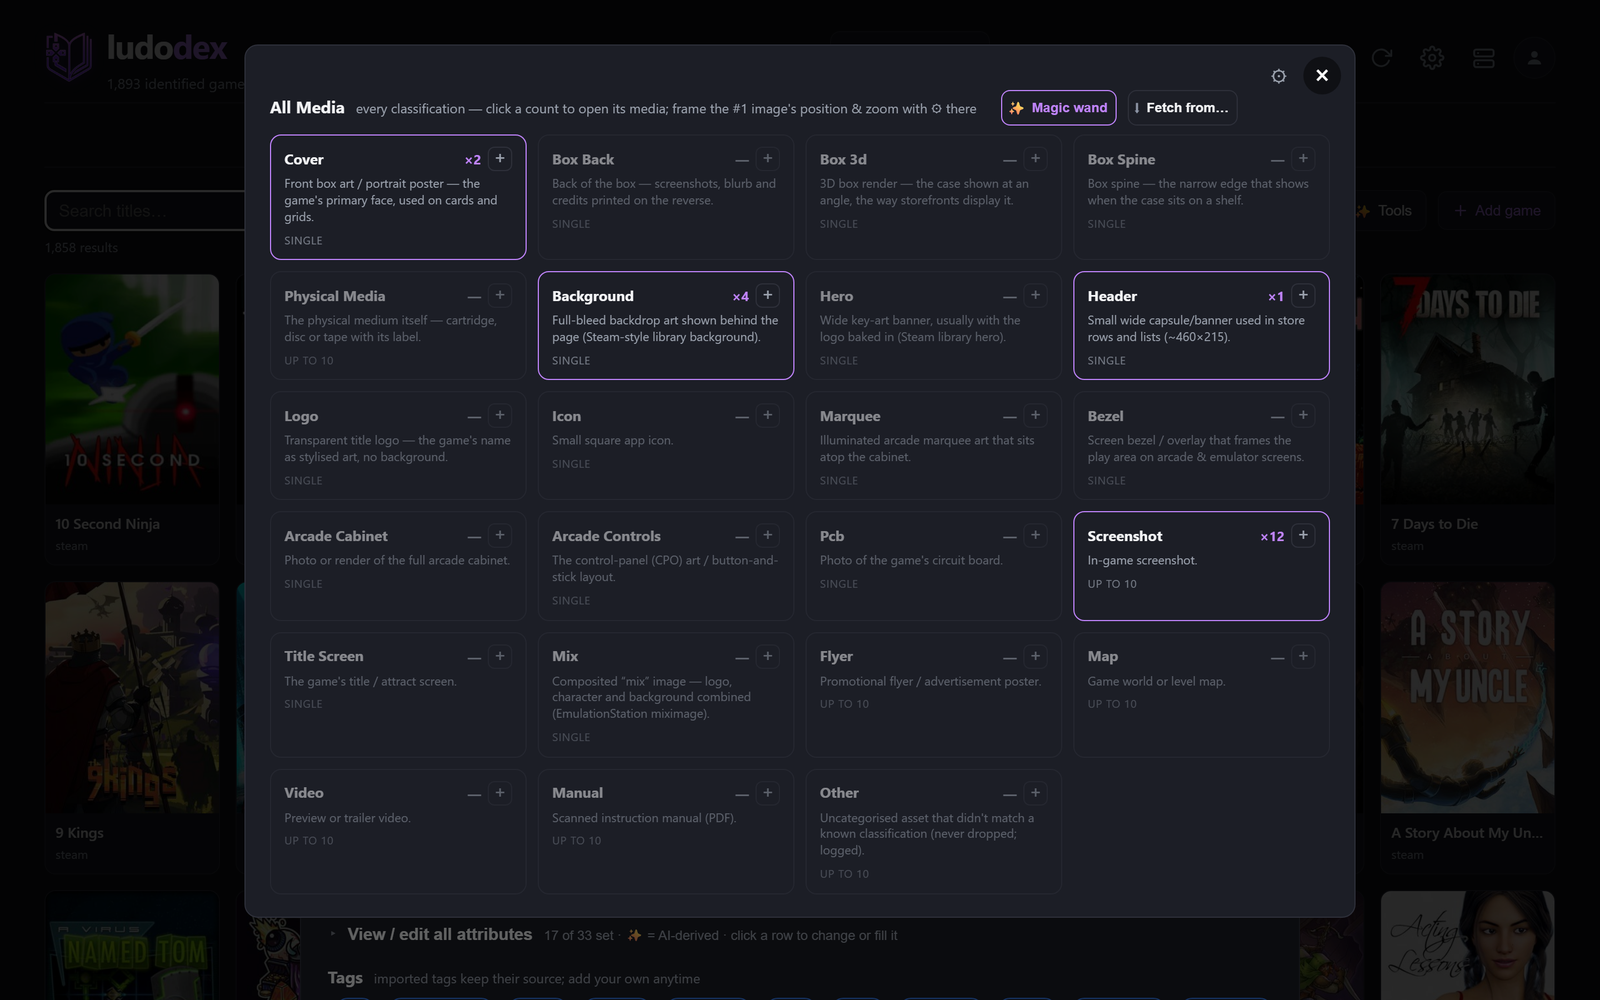
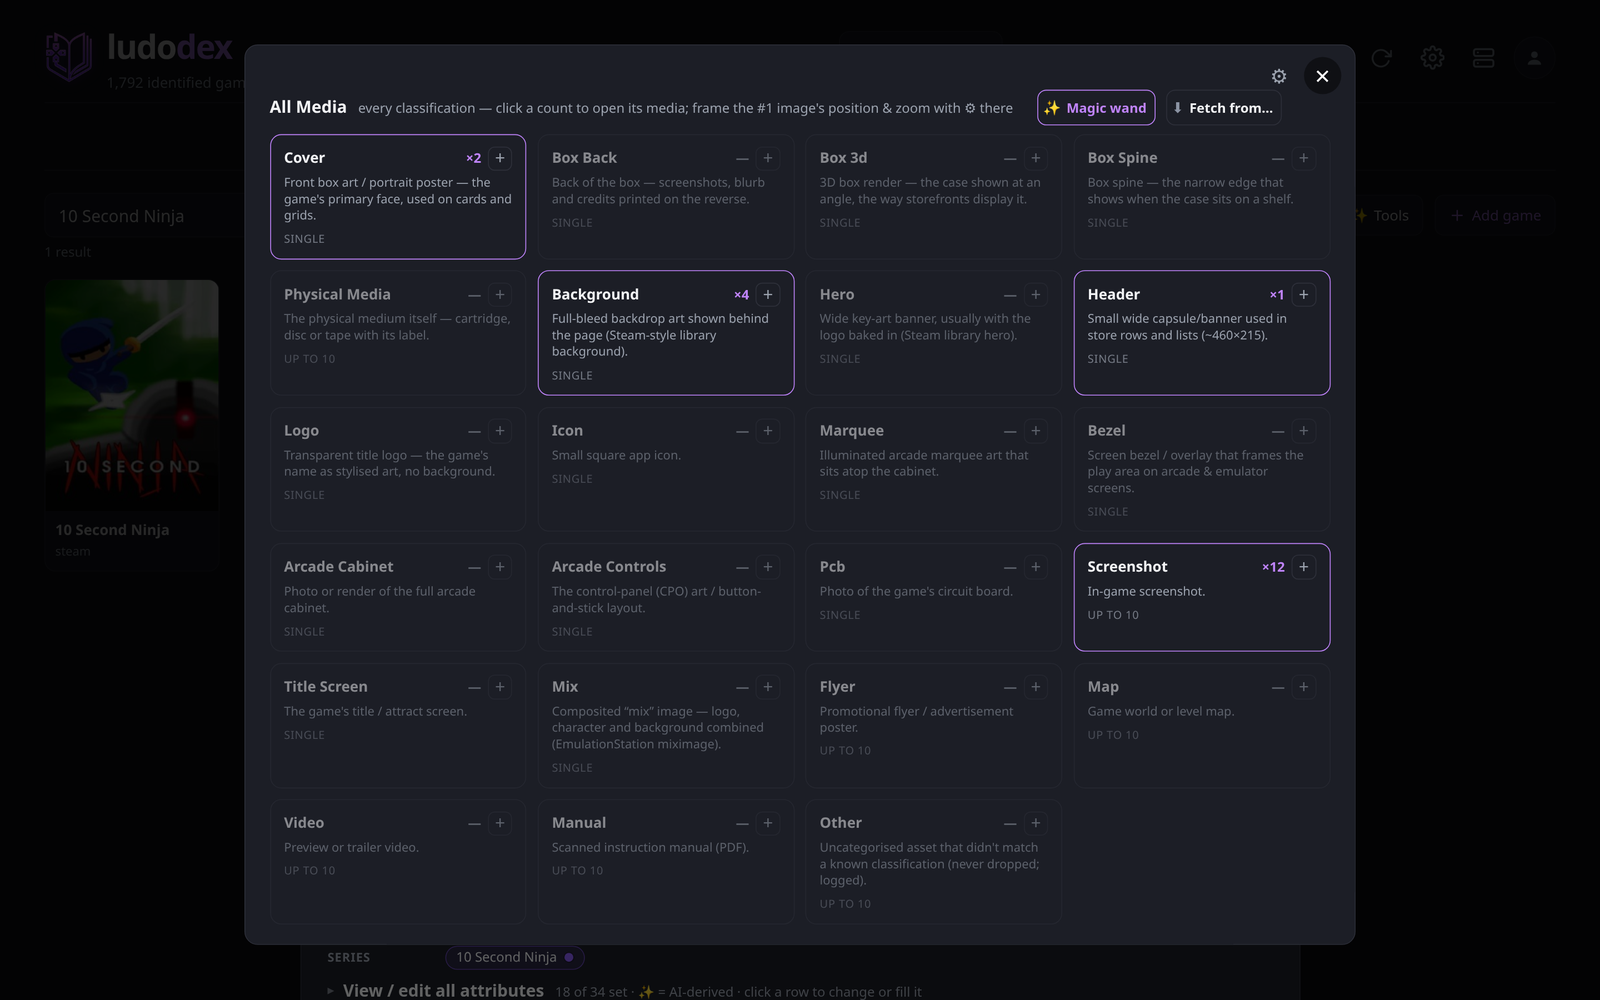
docs: match the docs to this week's cleanup, and retake the screenshots
TASKS records the 2026-09-24 work: the whole-codebase cleanup, the bugs it
found, the live UI suite and the defects that suite found, with the results
and the two ideas left undone.

AUTH gains a section on signing in to ludodex itself: which screens and
routes are admin-only, and what /api/health shows signed out. It also says
what makes EA read as connected, and names the Settings panel that now holds
store credentials. DOCKER points health checks at /api/health. CONFIG lists
the two new preferences and explains the readiness check behind the [ok]
mark. DESIGN describes how a route resolves a game key and the one-job-per-
kind guard, and corrects where the Xbox setting lives. SCHEMA notes the new
catalog indexes, SYNC and HANDOFF note what is admin-only or open, TESTING
describes the key lint as it now works and the suite's admin-only and add-on
checks. README counts 34 attributes, as the app does.

All six README screenshots retaken from the live app at the same widths:
the header and dashboard numbers changed, detail pages gained Series,
Franchise and Related games, and chips now carry provider ids.

diff --git a/docs/TASKS.md b/docs/TASKS.md
@@ -4,7 +4,7 @@ The working backlog. Numbers are stable task IDs referenced in commit messages
 (`feat(match-confidence): … (#13)`). Per-task design docs live in
 `docs/superpowers/specs/`; execution plans in `docs/superpowers/plans/`.
 
-Last reviewed: 2026-09-15.
+Last reviewed: 2026-09-24.
 
 ---
 
@@ -1227,3 +1227,75 @@ Suite 188 passed / 0 failed / 6 skipped.
 flattening the block and splitting on commas, so a COMMENT containing a comma turned the
 entry below it into a junk token and the kind read as missing. The list is commented on
 purpose, so the parser now strips comments first.
+
+## Shipped 2026-09-24: whole-codebase cleanup, and a live UI suite that found real defects
+
+Commits `7dd0b53`..`bdf016a`. No task number; this was a review of the whole codebase,
+then a browser suite to prove the result against the running app.
+
+### The cleanup
+
+| Area | What changed |
+|---|---|
+| Catalog speed | Indexes on `COALESCE(card_key, entry_key)` (the grid's grouping), `base_key` and `parent_key`, and on `run_ops(run_id, status)`. Schema DDL runs once per process per file (`ludodex/schema_once.py`) instead of on every connection. Stats and detail queries batched; the backing-store SQL sync uses `executemany`. |
+| One answer per question | `config.ready(pid)` is the one readiness check behind the CLI status column, the sync picker, the Stores & providers panel and the provider matrix. EA and Epic are stricter in the CLI than before, GOG now shows connected, and TheGamesDB needs an API key to read as ready. |
+| Store links | Built server-side in `provider_links`; each source row carries its `url`. `media_fetch` is driven by one provider table (`FULL_REFRESH`). |
+| Route keys | Every route that takes a game key declares it as `BaseKey`, `EntryKey`, `BaseNk`, `CollBaseKey` or `RawKey`, and FastAPI resolves it. `test_routes_resolve_their_keys.py` checks the annotation. |
+| Jobs | One `JobSlot` guard for the seven single-flight jobs (sync, ROM sync, media, match, match index, publish, backup). Check and claim happen under one lock. Media, match, match-index and backup jobs now appear in the job monitor and can be dismissed. |
+| Shared helpers | `_resolve_area`, `_meta_cache`, `_igdb_record`, `catalog_patch.rename_if_rom_only` and `sources_summary`; `DATA` read from config; `api.ts` goes through `get` / `mutate` / `postJson`; `useEscClose`. Dead code removed. UI polls pause while the tab is hidden. |
+
+**Bugs the review found:**
+- The per-game provider on/off switch accepted 3 of the 7 metadata providers. It now
+  reads `provider_ids.PROVIDERS`.
+- Job-slot races: two requests arriving together could both start a match-index download
+  or rebuild, a backup, or a scheduled backup.
+- The media storage job and the media reconcile queue shared one lock.
+- `media_fetch --sync-art <anything but igdb>` printed a count and exited 0. It now
+  errors, because only IGDB has an incremental pass.
+- `sources_summary` mishandled a source with a blank platform.
+- `gog_wishlist` did not save a refreshed token.
+- Art adjudication now rechecks its marker before each paid call.
+- Errors that reached the UI as `[object Object]` now show their message.
+
+### The live UI suite
+
+`tests/browser/ui_full.py`, run by `scripts/run_live_ui.sh`: Playwright inside a browser
+container over CDP, in its own context, behind a write guard, with reversible toggles
+only. See `docs/TESTING.md`. Its first runs found these, all fixed:
+
+- `%` and `_` in a search, or in the query language, were SQL `LIKE` wildcards. They are
+  now escaped.
+- `/api/stats` counted entries the library hides, so a dashboard card read higher than
+  the view it opened. It now applies the library's own hidden-entry rule.
+- The dashboard counted DLC and expansions as games. It no longer does, and `/api/stats`
+  reports how many it left out as `addons`.
+- A metadata provider disabled for a game vanished from the list, so it could not be
+  turned back on. It now stays listed, marked disabled.
+- `spotlight_include_collections` was not saved.
+- A game owned twice on one store (BioShock is Steam 7670 and Steam 409710) showed one
+  store chip, because the chips were keyed by store name. They are now keyed by store
+  and id. The IGDB chip now links to IGDB.
+- `/api/devices/browse-entries` is a GET, as a read should be, not a POST.
+- "1 results" reads "1 result".
+- At tablet and phone widths the Settings section row covered the close button.
+- `/api/health` served data paths and the AI setup to anyone who could reach the port.
+  Signed out it now returns only `{"ok": true}`; the details need a login unless an
+  admin turns on Settings > Account & Users > Health endpoint (`public_health_details`).
+- A normal user could open Settings > Database, whose panels call admin-only APIs, and
+  sat on "Loading" forever. Database is now admin-only, like Account & Users.
+- Five Settings panels (AI settings, backing store, snapshots, library preferences,
+  runbook) hid a failed first load behind a spinner. They now show the error.
+
+### Live result
+
+Offline suite: 198 passed, 0 failed, 6 skipped. Live UI suite: 437 checks, 0 failed, as
+a normal user; 483 checks, 0 failed, as an admin with writes on, every toggle restored.
+
+### Considered and not done
+
+- **Browser caching of covers.** Safe only with a cover version stamp that changes every
+  time the chosen art changes. Without one, a long cache would keep showing replaced art.
+- **Server `DATA` from config.** `config.DATA` is fixed when the module is first imported,
+  so reading the server's paths from it would not follow a later change.
+
+Nothing from this session is left open.

diff --git a/docs/AUTH.md b/docs/AUTH.md
@@ -20,7 +20,7 @@ environment variable   >   local config (config.sqlite)
 
 - **Env var** — highest priority; handy for one-off runs / CI.
 - **Local config** — `python3 ludodex/config.py set <key> <value>` (or enter it in the web
-  UI: **Settings › Services**); stored in `config.sqlite` (gitignored).
+  UI: **Settings › Connections › Stores & providers**); stored in `config.sqlite` (gitignored).
 
 Resolver helpers (used by the pull scripts and `scripts/auth_status.sh`):
 
@@ -145,6 +145,10 @@ from your logged-in browser:
   Where Akamai blocks it (Path B), EA is a **re-grab-on-demand** source — re-do the
   URL→JSON step when you want to refresh ownership (EA libraries change rarely). Full
   server-side automation would need a real browser engine (Playwright), as Lutris uses.
+- **What counts as connected:** EA reads as ready only while an unexpired token sits in
+  `.ea/token.json`. A `remid` alone does not count, because the refresh it depends on is
+  so often blocked. The CLI status column, the sync menu and the provider matrix all ask
+  the same check (`config.ready`).
 
 ### emulation / local archives
 No cloud auth. The emulation ROM index is built from `roms-index.sqlite`
@@ -393,6 +397,21 @@ ScreenScraper) is IP-gated. Setting `commercial_safe_only=1` is intended to run
 only the cleared providers — keep a commercial build standing on IGDB + members'
 own ownership/library data + user-owned media, with the rest as license-gated
 enrichers.
+
+## Signing in to ludodex itself
+
+Every `/api/*` route needs a signed-in session, except sign-in itself and
+`/api/health`. Accounts are local, with two roles, `admin` and `user`, and
+[Cloudflare Access](CLOUDFLARE.md) can sign people in on top of them.
+
+- **Admin only:** Settings › **Account & Users** and Settings › **Database**, the
+  **Files** tab, and the server-side operator routes (file operations, restart and
+  reset, backups, the backing store, catalog rebuild, match-index download). The
+  server refuses these to a `user` whatever the UI shows.
+- **`/api/health`:** a signed-out caller gets `{"ok": true}` and nothing else, which is
+  enough for a container health check or an uptime monitor. The details (data paths
+  and the AI setup) need a login, unless an admin turns on Settings › Account & Users ›
+  **Health endpoint** (config `public_health_details`).
 
 ## Onboarding a fresh machine
 

diff --git a/docs/DESIGN.md b/docs/DESIGN.md
@@ -412,6 +412,13 @@ same across platforms → keyed by **`base_key`** and fanned across its entries 
 time. Ownership, installs, pins, framing and **media choice** are **per-entry**
 (platform-specific).
 
+**How a route reads a key.** Three shapes reach a route: `<base_key>@<platform>`, a bare
+`base_key`, and a card key (§11.10). Only `_split_entry_key` understands all three, so no
+route splits a key itself. It declares the key as `BaseKey`, `EntryKey`, `BaseNk` or
+`CollBaseKey` (or `RawKey` to echo it back unchanged), and FastAPI resolves it before the
+handler runs. `tests/test_routes_resolve_their_keys.py` fails any route that takes a key
+another way.
+
 ### 11.4 Media siloing (fixes the wrong-cover bug)
 
 `media` already carries `system`. An entry's media = `media WHERE norm_key=base_key AND
@@ -421,8 +428,8 @@ to platform-neutral store art (`system IS NULL`) when a console has none.
 
 ### 11.5 Xbox platform setting
 
-Config **`xbox_platform`** = `xbox` (default) | `pc`, surfaced at **Settings → Stores →
-Xbox**. It only sets the **bulk-inbound** bucket for the Xbox sync. Independent of it,
+Config **`xbox_platform`** = `xbox` (default) | `pc`, surfaced at **Settings → Library →
+Preferences**. It only sets the **bulk-inbound** bucket for the Xbox sync. Independent of it,
 **manual per-platform ownership can mark a game owned on Xbox AND PC** (or either) — the
 setting is the default, manual is unconstrained.
 
@@ -459,6 +466,13 @@ for the entire rebuild (~10 min on the array) and every concurrent `/api` read t
 catalog intact. Any large SQLite writer added here follows the same pattern. Server read
 connections (`ro()`) also carry `busy_timeout` so a brief lock from another pipeline
 writer (scores / media backfill) waits rather than erroring.
+
+**Long jobs run one at a time per kind.** Sync, ROM sync, media download, provider match,
+match index, publish and backup each hold a `JobSlot` in `server/app.py`. The running
+check and the claim happen under one lock, so two requests that arrive together cannot
+both start. A second start answers `409` with the reason, and a slot can name other slots
+that block it. Every slot reports to the job monitor in the header, where a finished job
+can be dismissed.
 
 ### 11.9 Media identity binding — the durable exit from the read-time heuristic stack
 

diff --git a/docs/TESTING.md b/docs/TESTING.md
@@ -26,13 +26,15 @@ So there are three kinds, and each catches what the others cannot.
 
 | kind | needs | catches |
 |---|---|---|
-| **unit** (~180 files) | nothing | logic, in isolation, fast |
+| **unit** (~200 files) | nothing | logic, in isolation, fast |
 | **contract** (`test_live_ui_contract.py`) | a running instance | the UI/API seam |
 | **render** (`test_live_browser_detail.py`) | a browser too | whether anything reached the screen |
 
 Plus one **lint** with no dependencies at all: `test_routes_resolve_their_keys.py` reads
-`server/app.py` and fails if a route takes a game key and queries by `norm_key` without
-resolving it first. That is the media bug, caught at the moment somebody writes it.
+`server/app.py` and fails if a route takes a game key any way other than through a key
+dependency (`BaseKey`, `EntryKey`, `BaseNk`, `CollBaseKey`) or a helper that resolves it,
+unless the route is named in the test as taking something else. That is the media bug,
+caught at the moment somebody writes it.
 
 ## The live tests
 
@@ -96,12 +98,17 @@ Two habits, both learned the hard way:
 ## The whole UI, in a real browser
 
 `tests/browser/ui_full.py` walks every screen a user can reach and checks each against the
-API: sign-in and session, the dashboard numbers and the views each card opens, library
+API: sign-in and session, the dashboard numbers (the Games card must equal the library
+total less the add-ons `/api/stats` reports) and the views each card opens, library
 searches (exact, partial, no-hit, `%`, `_`, `&`, non-ASCII, a very long query, the query
 language), filters, sort, ownership scope, paging, per-page and layout persistence, game
 pages of several kinds (store links, provider chips, media menus, related games, Back,
 Escape), every Settings panel, the job monitor, the header menus, Files and Publish. It
 runs at a desktop and a phone viewport and saves a screenshot of each main screen.
+
+It knows which screens belong to an admin. Signed in as a `user`, it expects the
+**Files** tab and the **Account & Users** and **Database** sections of Settings to be
+absent; signed in as an admin, it expects them present.
 
 The API is the oracle wherever it can be. A search is compared with the count of titles
 that literally contain the query, taken from the full owned list, so a wildcard leaking

diff --git a/docs/CONFIG.md b/docs/CONFIG.md
@@ -46,6 +46,8 @@ Stored in the same table as `1` / `0`.
 | `launchbox_media_mode` | `copy` · `link` |
 | `matchindex.prefer` | `dynamic` (your own data first) · `supplement` |
 | `matchindex.path` | where the optional match index lives |
+| `spotlight_include_collections` | let a compilation (a collection's own entry, like *DOOM + DOOM II*) appear in the dashboard Spotlight |
+| `public_health_details` | show `/api/health`'s details to signed-out callers (admin switch, off by default) |
 
 ## Credential precedence
 
@@ -64,3 +66,9 @@ python3 ludodex/config.py integrations        # overview + which are configured
 python3 ludodex/config.py integrations ea     # exact steps for one
 bash scripts/auth_status.sh                   # OK / BROKEN per source
 ```
+
+The `[ok]` mark in `integrations` comes from `config.ready(<id>)`, the one readiness
+check the sync menu, the Stores & providers panel and the provider matrix also use. It
+is stricter than "a key is set": EA needs an unexpired token, Epic needs a cached
+legendary login, GOG, PSN, Xbox and Nintendo need a saved login, and TheGamesDB needs
+an API key.

diff --git a/docs/SCHEMA.md b/docs/SCHEMA.md
@@ -27,6 +27,11 @@ wanted(          game_id, store, store_id, title_raw )       -- which store want
 The whole thing is rebuilt on every run, so nothing durable lives here — the durable
 stores are the separate files listed further down.
 
+Besides the per-table `game_id` indexes, `games` carries an index on the expression
+`COALESCE(card_key, entry_key)`, which is exactly what the library grid groups by, and on
+`base_key` and `parent_key`. A query only uses the first one if it writes the same
+expression.
+
 ### The keys, and why there are five
 
 This is the part worth understanding.

diff --git a/docs/DOCKER.md b/docs/DOCKER.md
@@ -63,6 +63,9 @@ docker run -d --name ludodex -p 8001:8001 \
   secret store at runtime. `.env` is gitignored.
 - **Device credentials** (SSH keys/passwords for your Steam Deck, NAS, etc.) are
   stored in `/data/connections.sqlite` — never in the image, never in git.
+- **Health checks:** point a container health check or an uptime monitor at
+  `GET /api/health`. Signed out, it answers `{"ok": true}` and nothing more. The
+  details need a login; see [AUTH.md](AUTH.md#signing-in-to-ludodex-itself).
 
 ## Using a network share (NFS / SMB)
 

diff --git a/README.md b/README.md
@@ -44,7 +44,7 @@ Ambiguous matches are **refused** rather than guessed at, because a confident wr
 answer propagates into your art, your metadata, and eventually onto your devices.
 
 Every game shows you what it matched, which provider each fact came from, and which
-of its 33 attributes are still empty.
+of its 34 attributes are still empty.
 
 <div align="center">
 <img src="docs/images/detail.png" alt="A game detail page: matched providers, scores, attributes and tags" width="820">

diff --git a/docs/HANDOFF.md b/docs/HANDOFF.md
@@ -194,7 +194,7 @@ where SQLite is the local cache and the remote holds the durable truth.
 fileops, backups, AI settings and spend, provider mirrors, review queues). Two
 corrections to the sketch: **`/api/search` is a `POST`**, not a `GET` — a
 natural-language query with its filters does not belong in a URL — and every `/api/*`
-route sits behind the session middleware.
+route except sign-in and `/api/health` sits behind the session middleware.
 
 
 ```

diff --git a/docs/SYNC.md b/docs/SYNC.md
@@ -34,7 +34,7 @@ code change.
 ## Running it
 
 Settings → **Database** drives all of this from the UI, and is the normal way to use it.
-From a shell:
+It is shown to admins only. From a shell:
 
 ```bash
 python3 ludodex/config.py set backingstore_backend pocketbase   # or postgres|supabase|mysql|firebase
